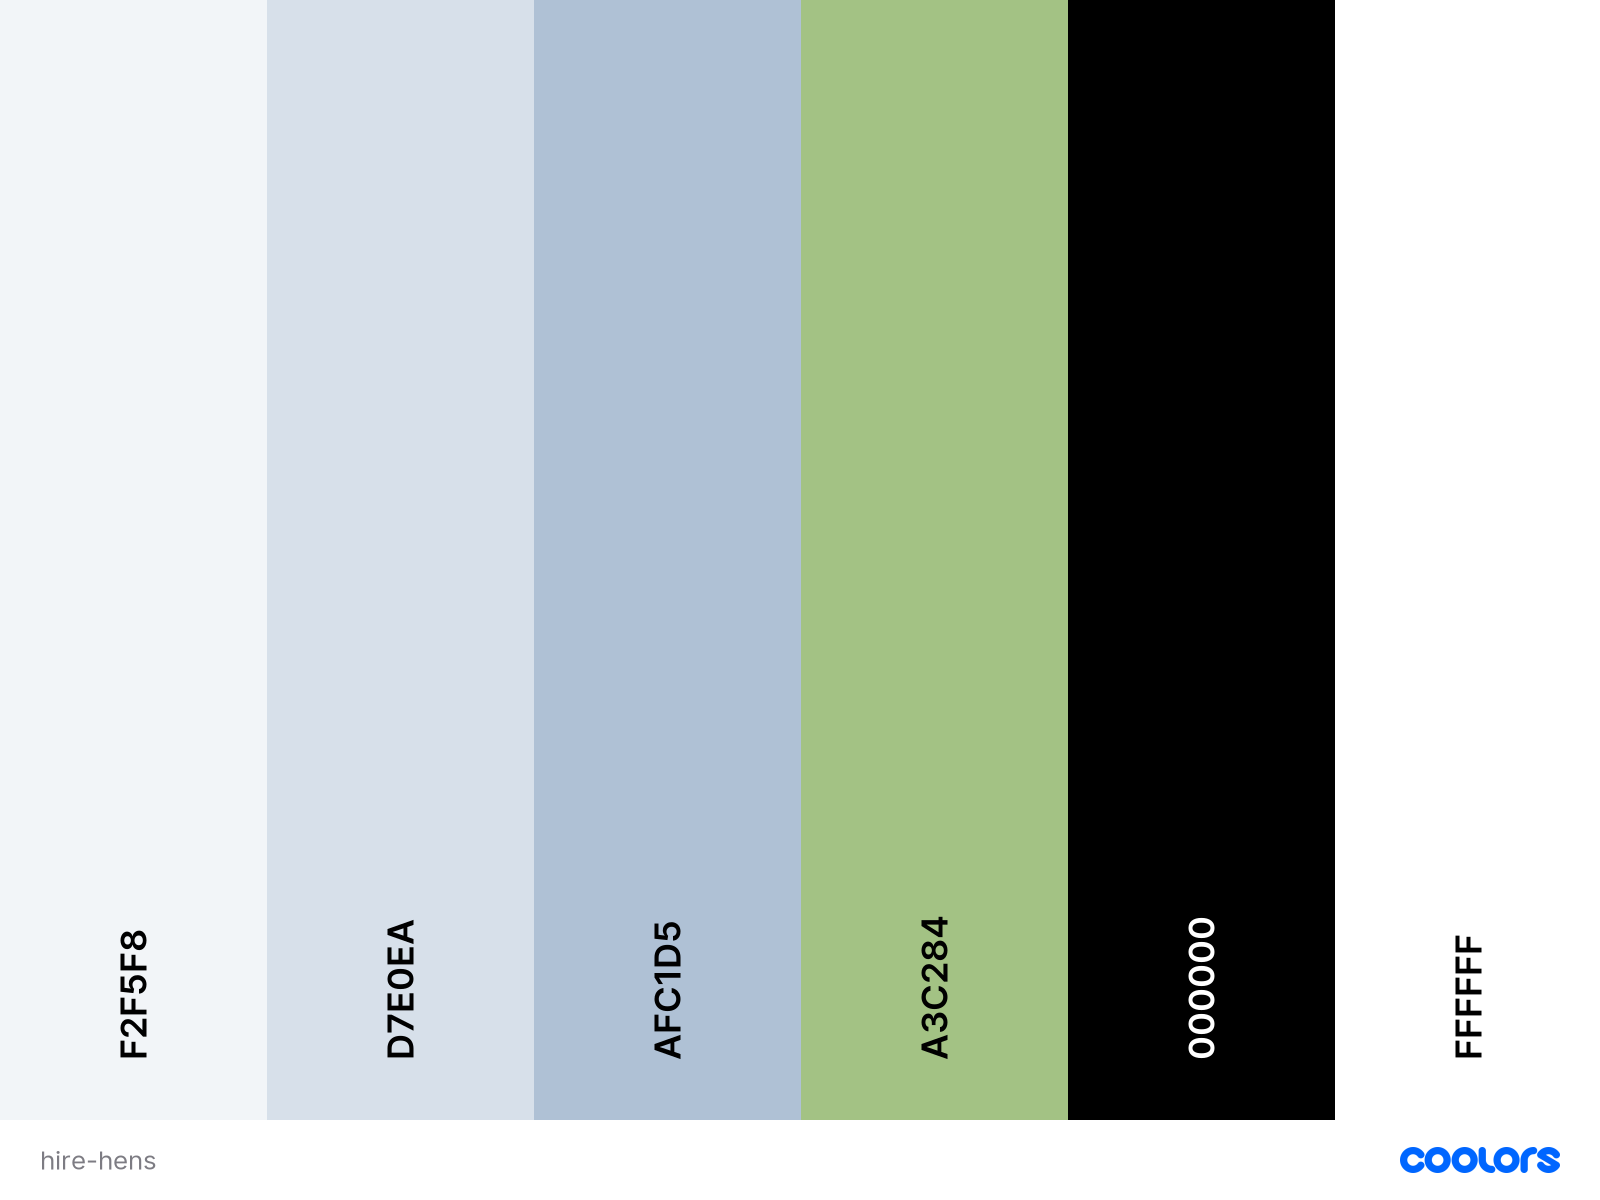
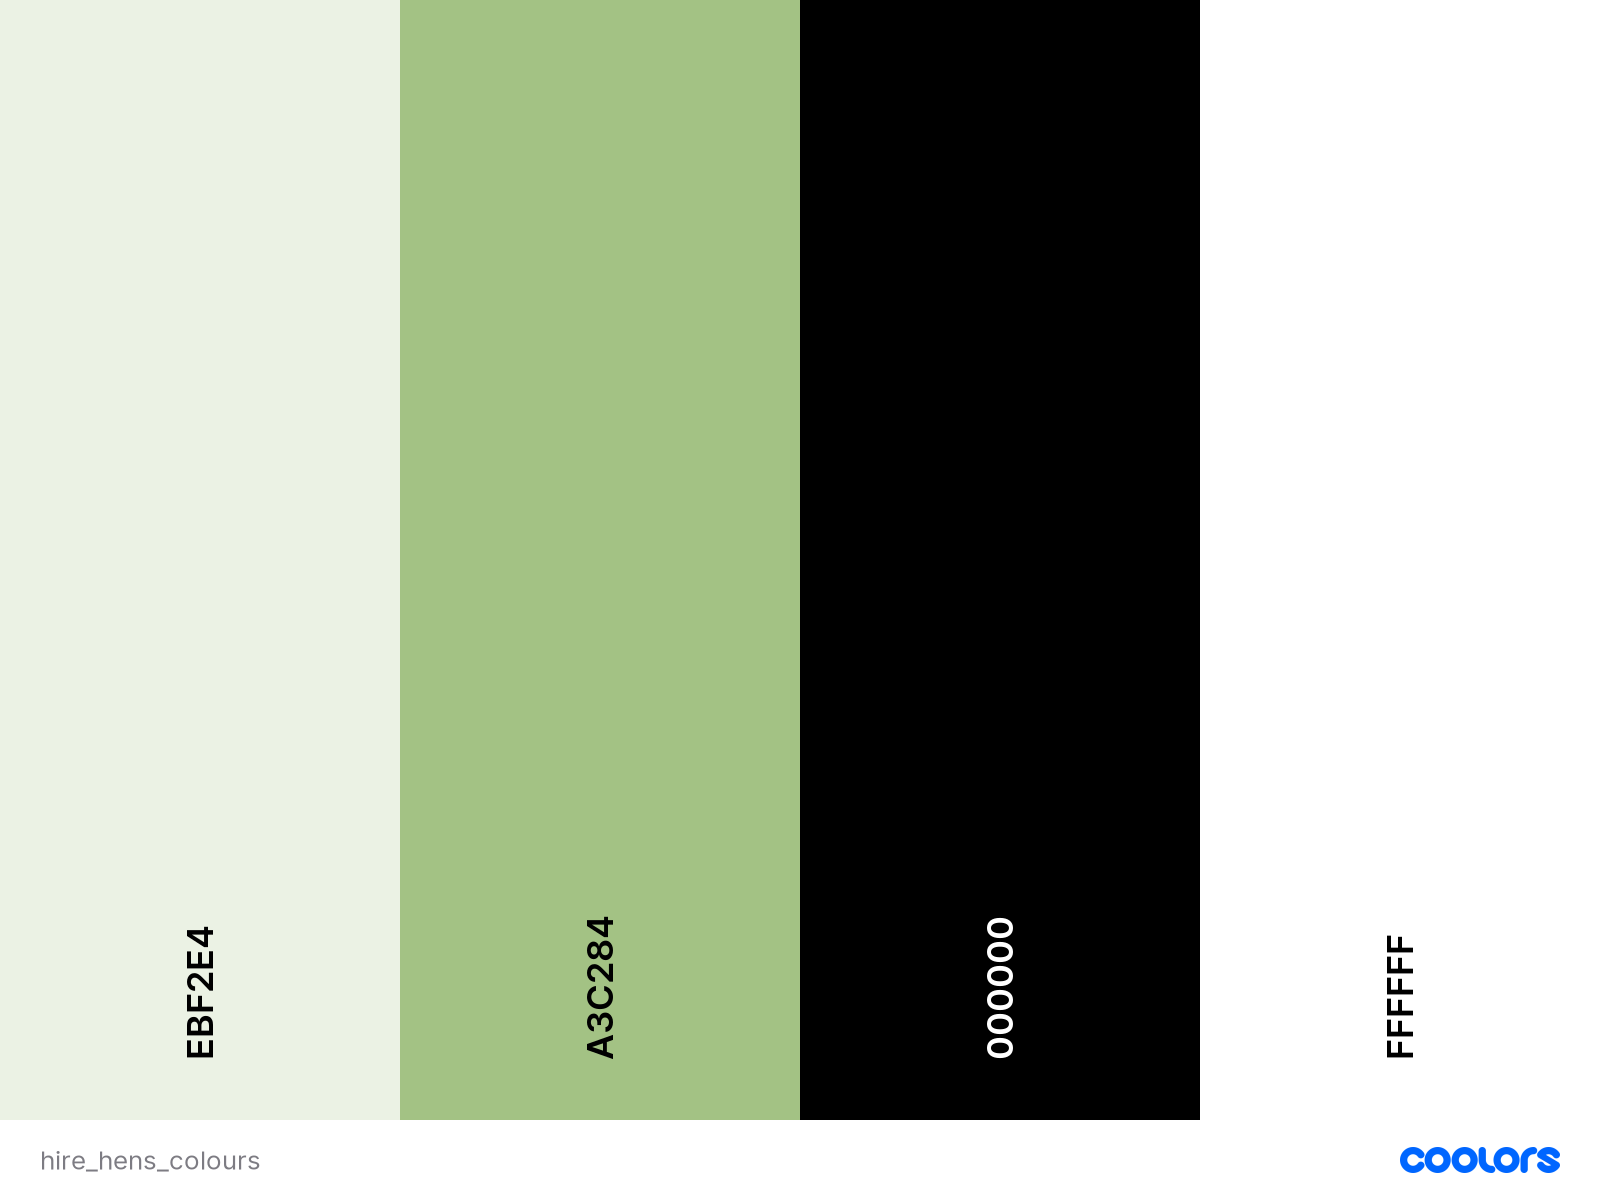
README: Update of colours and correcting some typos

diff --git a/templates/includes/links.html b/templates/includes/links.html
@@ -5,5 +5,6 @@
 <link rel="icon" type="image/png" sizes="32x32" href="/media/favicon/favicon-32x32.png">
 <link rel="icon" type="image/png" sizes="16x16" href="/media/favicon/favicon-16x16.png">
 <link rel="manifest" href="/media/favicon/site.webmanifest">
+<link rel="icon" href="/media/favicon/favicon.ico">
 
 <link rel="stylesheet" href="{% static 'css/base.css' %}">

diff --git a/README.md b/README.md
@@ -1,6 +1,6 @@
 # ![An egg](media/favicon/favicon.ico)   Hens for Hire
 
-Do you dream about fetching fresch eggs, from your own hens! **Hens for Hire**, is the easy way to live your dream and try out having hens in your own backyard. We will help you with the "how to" and the equipment you need. If you later on, or immediately, decides to buy hens instead - we give you the possibility!
+Do you dream about fetching fresh eggs, from your own hens! **Hens for Hire**, is the easy way to live your dream and try out having hens in your own backyard. We will help you with the "how to" and the equipment you need. If you later on, or immediately, decides to buy hens instead - just go ahead!
 
 The live project can be found here: [https://hire-hens.herokuapp.com/](https://hire-hens.herokuapp.com/)
 
@@ -28,14 +28,14 @@ The live project can be found here: [https://hire-hens.herokuapp.com/](https://h
 - Buy hens, coops, equipment and consumables.
 
 **Site owners need**
-- That it is easy for a user to hire hens and accessories.
-- That is easy for a user to buy hens, equipment and consumables.
+- That it is easy for a user to hire hens, coop and equipment (as waterer and feeder).
+- That is easy for a user to buy hens, coop, equipment and consumables (as food and bedding).
 - Possibilty to add frequently asked questions (FAQ).
 - Being able to administer products, orders and FAQs.
 - That only people with authority are being able to administer the products, FAQs and orders.
 
 **Users** needs:
-- Easy and intuitive way to hire hens, coops and equipment.
+- Easy and intuitive way to hire or buy hens, coops and equipment and also buy consumables.
 - Easy to find more information about the rental process and how to take care of a hen.
 - Easy to buy hens and accessories.
 
@@ -50,7 +50,7 @@ The live project can be found here: [https://hire-hens.herokuapp.com/](https://h
 
 - US_004: As a user, I want to be able to look at the site anonymously, without logging in.
 
-- US_005: As a user, I want to build my own rental package, consisting of hens of my choice and having the possibility to add coop and/or feeder and waterer and add to cart.
+- US_005: As a user, I want to build my own rental package for a specific number of months, having the possibility to add hens, coop and/or other equipment.
 
 - US_006: As a user, I want to add products that I want to buy to the cart.
 
@@ -64,7 +64,7 @@ The live project can be found here: [https://hire-hens.herokuapp.com/](https://h
 
 - US_011: As a user, I want to pay, for the contents in my cart, in a secure way, with a credit card.
 
-- US_012: As a user, I want to be able to buy things even if I am not logged in. And if I am logged in I want my personal information for delivery, to be shown at checkout time.
+- US_012: As a user that is logged in I want to be able to save my delivery and contact information to be shown in checkout form every time I checkout.
 
 - US_013: As a user, I want to be able to see my profile information with my order history. 
 
@@ -78,29 +78,33 @@ The live project can be found here: [https://hire-hens.herokuapp.com/](https://h
     - which orders have not been delivered yet
     - which orders includes rentals that is not returned and be able to see if they are overdue.
 
+- US_018: As an administrator I want to be able to mark an order that has no delivery date as delivered.
+
+- US_019: As an administrator I want to be able to mark a rental item that has a due date as returned.
+
 ### Structure Plane
 - A "homepage" with a picture of hens.
 - Navbar with:
     - Brand-image that leads to homepage.
-    - Link to page where user can rent product. Easily guided through a flow building a package of rental products to hire for same amount of time.
-    - Link to page where user can buy eg. food and bedding
+    - Link to page where user can rent products.
+    - Link to page where user can buy products.
     - Link to page with FAQ
     - Link to cart
-    - Sign up and Login In, or Log Out
-    - Profile page
+    - Link to register and login in, or log out
+    - Link to profile page
     - For administrators only an link to administer:
-        - Products
-        - Orders
+        - products
+        - orders
         - FAQs
 - Rental-page
     - One page for each category(Hens, Coops and Equipment) of products.
     - One page for each product with more detailed information and possibility to add to cart. This page is reached from the category of products page.
 - Buy-page:
     - One page for each category( Hens, Coops, Equipment and Consumables) of products.
-   - One page for each product with more detailed information and possibility to add product to cart. This page is reached from the category of products page.
+    - One page for each product with more detailed information and possibility to add product to cart. This page is reached from the category of products page.
 - FAQ-page:
-    - Questions and answeres to frequently asked questions.
-- Cart page:
+    - Questions and answers to frequently asked questions.
+- Cart-page:
     - Information what the cart consists of and possibility to change its content. Cart consists of a rental part and a part with items to buy.
     - Link to checkout page.
 - Checkout page:
@@ -125,10 +129,10 @@ The live project can be found here: [https://hire-hens.herokuapp.com/](https://h
     - then coop to add to cart
     - and then equipment as feeder and waterer to add to cart.
     - Through the process the number of months to rent, last choosen, is given as a suggestion for next item to rent. (High probability user wants to rent items the same amount of time.) 
-    - after equipment user can either go to cart to checkout or go to buy consumables as bedding and food.
+    - after hire equipment user can either go to cart to checkout or go to buy consumables as bedding and food.
 - To buy products user choose one item at a time to add to the cart.
 - User can always go to cart and see its content and then continue to shop.
-- Only User with special authority reaches administrator pages for managing Products, Orders and FAQs.
+- Only User with special authority reaches administrator pages for managing products, orders and FAQs.
 - Interactive design that works on Mobile, Tablet as well as Desktop.
 
 #### Wireframes
@@ -141,7 +145,7 @@ The live project can be found here: [https://hire-hens.herokuapp.com/](https://h
 #### Information Architecture
 ##### Database Choice
 - Development phase: SQLight which is installed with Django
-- Production phase (deployed): PostgreSQL, provided as an add-on by Heroku
+- Production phase (deployed): Postgres, provided as an add-on by Heroku
 
 ##### Data modell
 The data modell was visualised with [DrawSQL](https://drawsql.app/):
@@ -150,16 +154,19 @@ The data modell was visualised with [DrawSQL](https://drawsql.app/):
 #### Design Choices
 ##### Fonts
 For this project, **IBM Plex Serif** is chosen to give a rural experience. The font is picked from [Google Fonts](https://fonts.google.com/). It is a friendly style which fits both web and mobile interfaces, and even in print.
-As the fallback font in case IBM Plex Serif isn't being imported into the site correctly, **Roboto** and **Open Sans** are chosen.
+As the fallback font, in case IBM Plex Serif isn't being imported into the site correctly, **Roboto** and **Open Sans** are chosen.
 
 ##### Colours
 ![Colours](wireframes/hire_hens_colours.png)
+- Lightgreen, Ivory: #EBF2E4.
+- Green, Olivine: #A3C284
 - Black: #000000
 - White: #FFFFFF
-- Different shades of blue: #AFC1D5, #D7E0DA, #F2F5F8
-- Green: #A3C284
-Black and white are used to get a modern apperance and to get a good contrast. 
-Blue and green was choosen as the hens are able to be outside under the blue sky and on the green grass. 
+Green as the main color was choosen for a rural feeling and as the thought is that hens should be outside on the green grass.
+Buttons, navbar and footer have black background and white text to get a modern apperance and to get a good contrast.
+Text in pages is mainly black and the background is lightgreen or white to get good contrast.
+For error messages or delete/remove buttons a red color is sometimes used to get attention.
+
 
 
 ## Features
